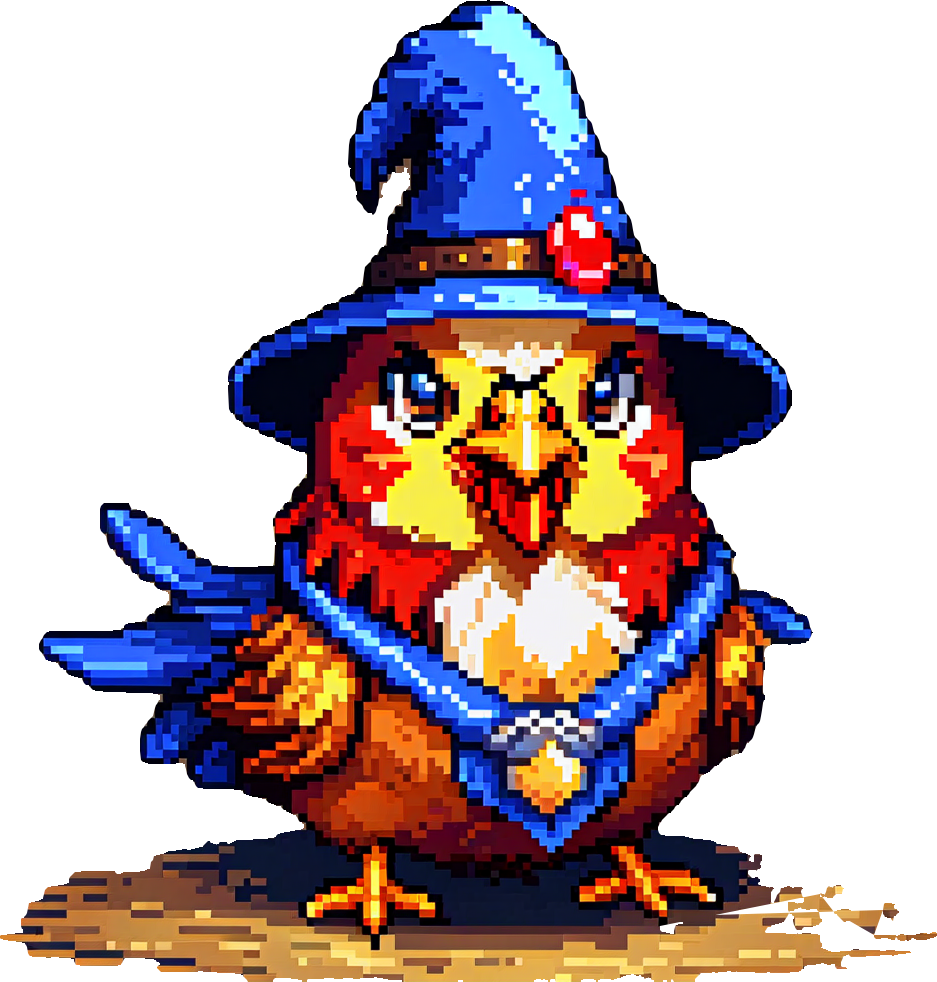
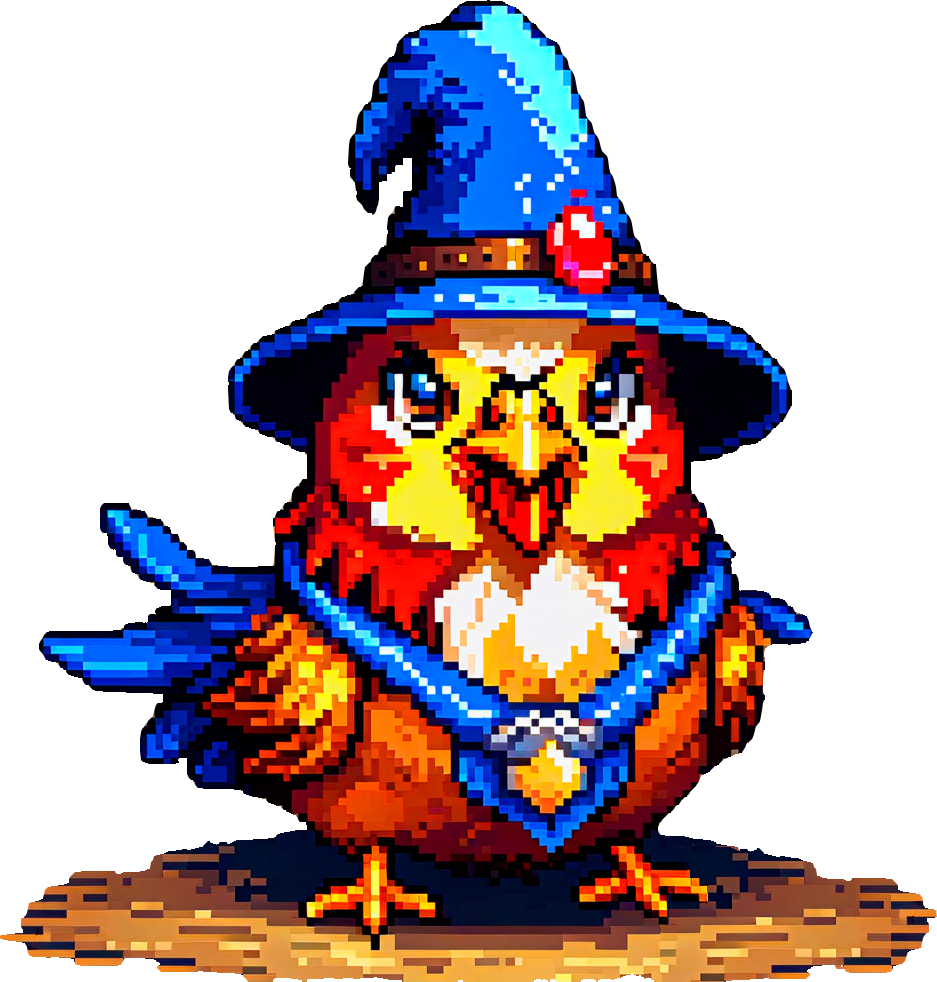
change css the heroe components #3

diff --git a/rpg-player-maker/src/app/component/character/heroe/HeroeHistory.jsx b/rpg-player-maker/src/app/component/character/heroe/HeroeHistory.jsx
@@ -1,7 +1,13 @@
 // HeroeHistory.jsx
-import { useEffect } from "react";
+import { useEffect, useState } from "react";
 
 const HeroeHistory = ({ character, onBonusesHistory }) => {
+  const [isOpenHistory, setIsOpenHistory] = useState(false);
+
+  const toggleVisibilityHistory = () => {
+    setIsOpenHistory(!isOpenHistory);
+  };
+
   useEffect(() => {
     onBonusesHistory(character.history);
   }, [character.history, onBonusesHistory]);
@@ -9,11 +15,26 @@ const HeroeHistory = ({ character, onBonusesHistory }) => {
   return (
     <div>
       {character.history && (
-        <div className="mt-6 p-4 border-4 border-slate-600 w-full">
-          <p className="text-4xl text-[var(--color4)] text-center mb-4">
-            Historia del Personaje
-          </p>
-          <p className="text-2xl text-justify">{character.history}</p>
+        <div className=" mt-6 p-6 border-4 border-slate-600 w-[1000px] h-auto">
+          <div className="flex items-center justify-between text-4xl text-[var(--color4)]">
+            <div className="flex justify-center text-center w-full gap-4">
+              Historia del Personaje
+              <div
+                onClick={toggleVisibilityHistory}
+                style={{
+                  cursor: "pointer",
+                  fontSize: "18px",
+                }}
+              >
+                {isOpenHistory ? "▼" : "▲"}
+              </div>
+            </div>
+          </div>
+          {isOpenHistory && (
+            <>
+              <p className="text-2xl text-justify mt-6">{character.history}</p>
+            </>
+          )}
         </div>
       )}
     </div>

diff --git a/rpg-player-maker/src/app/component/common/Helpbutton.jsx b/rpg-player-maker/src/app/component/common/Helpbutton.jsx
@@ -19,10 +19,9 @@ const Helpbutton = () => {
                 ¿Tienes dudas sobre como crear tu personaje?
               </p>
               <p className="text-xl">
-                No te preocupes, nuestros escuderos de confianza
-                <span className="text-[var(--color1)]"> Borgroth</span> y
-                <span className="text-[var(--color1)]"> Madness </span>
-                te explicaran todo lo que necesites saber.
+                No te preocupes, nuestro pollo mágico llamado
+                <span className="text-[var(--color1)]"> Pollete </span>
+                te explicara todo lo que necesitas saber.
               </p>
               <div>
                 <p className="text-2xl mb-2 text-[var(--color4)]">
@@ -124,7 +123,7 @@ const Helpbutton = () => {
                 </div>
                 <div className="flex flex-col justify-end items-center h-full">
                   <Image
-                    src="/Images/ImageSoldiers.png"
+                    src="/Images/chicken2.png"
                     alt="Imagen de los soldados"
                     width={1100}
                     height={1000}

diff --git a/rpg-player-maker/src/app/component/character/heroe/HeroeBackground.jsx b/rpg-player-maker/src/app/component/character/heroe/HeroeBackground.jsx
@@ -17,7 +17,7 @@ const HeroeBackground = ({ character, onBonusesBackground }) => {
   return (
     <div>
       {character.background && (
-        <div className="mt-4  text-lg border-4 border-slate-600 w-full">
+        <div className="mt-4 text-lg border-4 border-slate-600 w-[1000px]">
           <div className="mt-4 mb-4 text-4xl text-[var(--color4)] flex justify-center items-center gap-4 ">
             Trasfondo: {character.background.name}
             <div
@@ -30,7 +30,9 @@ const HeroeBackground = ({ character, onBonusesBackground }) => {
 
           {isOpenBackground && (
             <>
-              <p className="text-2xl">{character.background.description}</p>
+              <p className="text-2xl text-center">
+                {character.background.description}
+              </p>
               <div className="flex items-center justify-center my-6">
                 <p className="text-2xl  text-[var(--color7)]">• Habilidades:</p>
                 <ul className="flex text-2xl justify-center ">

diff --git a/rpg-player-maker/src/app/component/character/heroe/HeroeRaceDetails.jsx b/rpg-player-maker/src/app/component/character/heroe/HeroeRaceDetails.jsx
@@ -27,7 +27,7 @@ const HeroeRaceDetails = ({ character, onBonusesUpdateRace }) => {
 
   return (
     <div>
-      <div className="mt-6 p-4 border-4 border-slate-600 w-full mb-4">
+      <div className="mt-6 p-4 border-4 border-slate-600 mb-4 w-[1000px] text-center">
         <div className="text-4xl text-[var(--color4)] flex justify-center items-center gap-4">
           Raza: {character.race}
           {character.subrace ? ` [ ${character.subrace} ]` : ""}

diff --git a/rpg-player-maker/src/app/component/character/heroe/HeroeClassDetails.jsx b/rpg-player-maker/src/app/component/character/heroe/HeroeClassDetails.jsx
@@ -39,7 +39,7 @@ const HeroeClassDetails = ({ character, onBonusesUpdateClass }) => {
 
   return (
     <div>
-      <div className=" border-4 border-slate-600 w-full">
+      <div className=" border-4 border-slate-600 w-[1000px] text-center">
         <div className="mt-4 mb-4 text-4xl text-[var(--color4)] flex justify-center items-center gap-4">
           Clase: {character.class}
           {character.subclass ? ` [ ${character.subclass} ]` : ""}

diff --git a/rpg-player-maker/src/app/component/character/heroe/Heroe.jsx b/rpg-player-maker/src/app/component/character/heroe/Heroe.jsx
@@ -356,7 +356,7 @@ const Heroe = ({ character }) => {
   });
 
   return (
-    <div className="flex justify-center items-center flex-col text-2xl">
+    <div className="flex justify-center items-center flex-col text-2xl border-2 border-t-lime-50 border-solid mb-6 rounded-lg">
       <HeroeNameSex
         character={character}
         onNameSexUpdate={handleNameSexUpdate}
